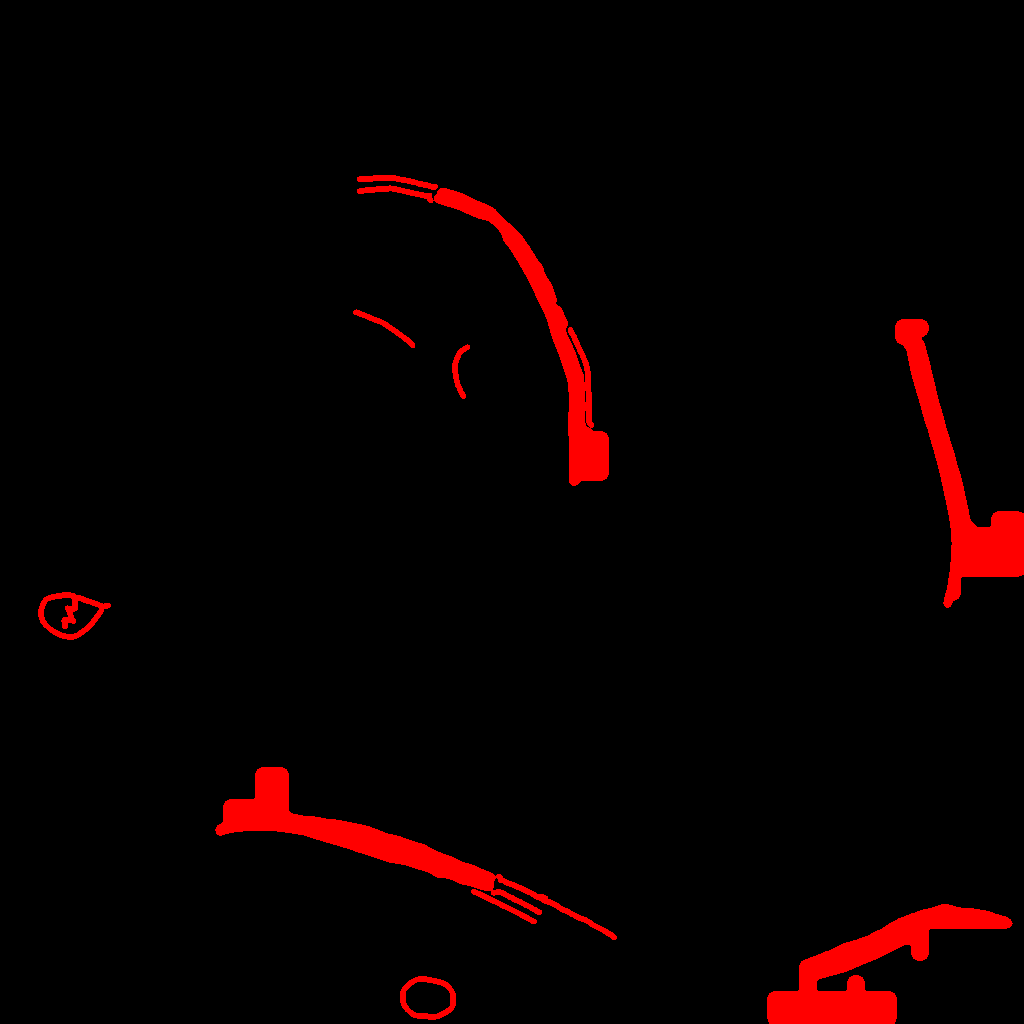
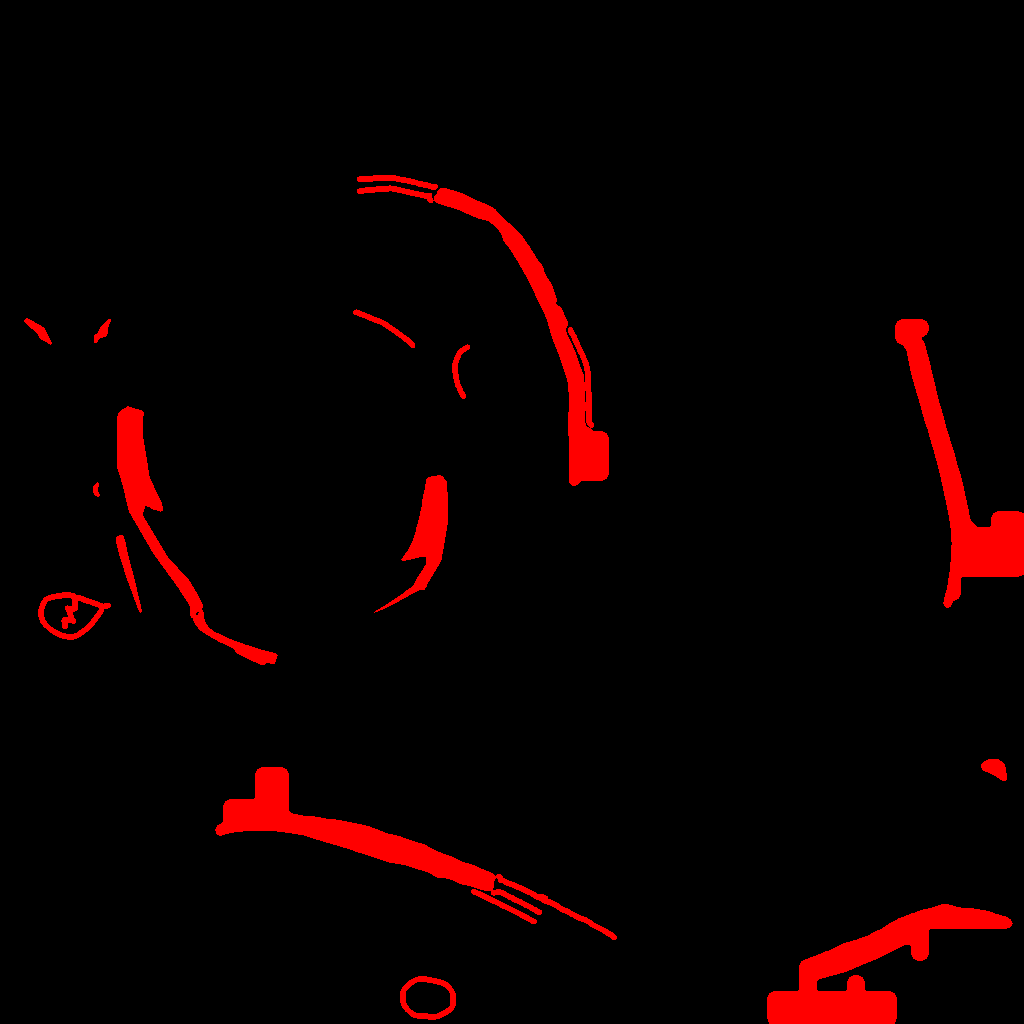
units-wire: EMBER hat band top neon stripe (geometry-driven: band top rim height rasterised into UV), single-unit probe

diff --git a/tools/units/build_rodin_units.py b/tools/units/build_rodin_units.py
@@ -5,6 +5,9 @@ usage: python tools/units/build_rodin_units.py   -> assets/units/<f>.glb, <f>_te
 import struct, json, io, os, numpy as np
 from PIL import Image
 from scipy import ndimage
+from PIL import ImageDraw
+
+EDGE_TRI = None   # set per unit in build()
 
 SRC = "H:/My Drive/PROJECTS/Ooze Syndicate/Models/2.0/factions-v4/generated/"
 OUT = "assets/units/"
@@ -49,7 +52,46 @@ def disc(r):
 
 # Plates whose logo is a lighter-grey relief (not white): (x0, y0, x1, y1) at 2048, raised-stroke threshold over the plate's median value
 PLATES = {"solar": [(1545, 325, 1765, 605)]}
+# EDGE_STRIPES: steel/goo boundary triangles of the mesh whose height lies in [y0, y1] (model units) get a neon stripe LINE_R wide on the steel side,
+# for an edge the Rodin texture has no light line on (Daniele 2026-11-15: EMBER hat band top edge). Geometry-driven: triangles rasterised into UV space.
+EDGE_STRIPES = {"ember": (1.18, 0.03)}   # (top height of the band, stripe depth) in model units
 LINE_R = 5          # half-width of the regularised thin lines at 2048 (about 5 px wide at 1024)
+
+
+def edge_triangles(b, j, off, game, diff2k):
+    """Texels (a bool image at 2048) of the steel triangles within `depth` below the top height `ytop`: the interpolated model height is
+    rasterised into UV space, so the stripe follows the real top rim of the part."""
+    ytop, depth = EDGE_STRIPES[game]
+    pr = j["meshes"][0]["primitives"][0]
+    def acc(i, n, dt):
+        a = j["accessors"][i]; bv = j["bufferViews"][a["bufferView"]]
+        return np.frombuffer(b, dtype=dt, count=a["count"] * n, offset=off + bv.get("byteOffset", 0) + a.get("byteOffset", 0)).reshape(a["count"], n)
+    P = acc(pr["attributes"]["POSITION"], 3, "<f4"); UV = acc(pr["attributes"]["TEXCOORD_0"], 2, "<f4"); I = acc(pr["indices"], 1, "<u2").reshape(-1, 3).astype(int)
+    rgb = np.asarray(diff2k, np.float32) / 255.0
+    sat, val = hsv(rgb)
+    steel = (sat < 0.2) & (val > 0.25)
+    out = np.zeros((2048, 2048), bool)
+    U = UV * 2047.0
+    for t in I:
+        if P[t, 1].max() < ytop - depth or P[t, 1].min() > ytop + 0.01:
+            continue
+        pts = U[t]
+        x0, x1 = int(pts[:, 0].min()), int(pts[:, 0].max()) + 1
+        y0, y1 = int(pts[:, 1].min()), int(pts[:, 1].max()) + 1
+        if x1 - x0 > 400 or y1 - y0 > 400:      # a UV seam triangle
+            continue
+        xs, ys = np.meshgrid(np.arange(x0, x1), np.arange(y0, y1))
+        d = (pts[1, 1] - pts[2, 1]) * (pts[0, 0] - pts[2, 0]) + (pts[2, 0] - pts[1, 0]) * (pts[0, 1] - pts[2, 1])
+        if abs(d) < 1e-9:
+            continue
+        w0 = ((pts[1, 1] - pts[2, 1]) * (xs - pts[2, 0]) + (pts[2, 0] - pts[1, 0]) * (ys - pts[2, 1])) / d
+        w1 = ((pts[2, 1] - pts[0, 1]) * (xs - pts[2, 0]) + (pts[0, 0] - pts[2, 0]) * (ys - pts[2, 1])) / d
+        w2 = 1 - w0 - w1
+        ins = (w0 >= -0.01) & (w1 >= -0.01) & (w2 >= -0.01)
+        yy = w0 * P[t[0], 1] + w1 * P[t[1], 1] + w2 * P[t[2], 1]
+        sel = ins & (yy > ytop - depth) & (yy < ytop + 0.01)
+        out[ys[sel], xs[sel]] = True
+    return out & steel
 
 
 def neon_mask(diff2k, vmin=0.78, game=""):
@@ -74,6 +116,8 @@ def neon_mask(diff2k, vmin=0.78, game=""):
         thick = np.isin(lab, 1 + np.nonzero(sizes >= 1500)[0])
     thick = ndimage.gaussian_filter(thick.astype(np.float32), 4.0) > 0.5          # smooth, even edges on the wide parts (AEGIS cap rim)
     m = thick | line
+    if game in EDGE_STRIPES and EDGE_TRI is not None:
+        m |= ndimage.gaussian_filter(EDGE_TRI.astype(np.float32), 3.0) > 0.45
     for (x0, y0, x1, y1) in PLATES.get(game, []):
         g = (v[y0:y1, x0:x1]).copy()
         g = ndimage.gaussian_filter(g, 1.2)
@@ -102,6 +146,8 @@ def build(game, folder):
         r.save(f"{OUT}{game}_{name}.png")
         o = io.BytesIO(); r.save(o, "PNG", optimize=True); pngs.append((name, o.getvalue()))
     # mask: cut at 2048, area-downsample, threshold -> crisp 1024
+    global EDGE_TRI
+    EDGE_TRI = edge_triangles(b, j, off, game, diff) if game in EDGE_STRIPES else None
     m = neon_mask(diff, VMIN.get(game, 0.78), game).astype(np.float32)
     m1 = np.asarray(Image.fromarray((m * 255).astype(np.uint8)).resize((1024, 1024), Image.BOX), np.float32) / 255.0
     tint = np.zeros((1024, 1024, 3), np.uint8)
